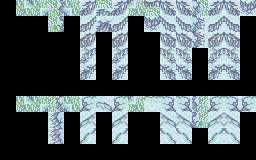
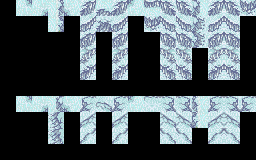
snow palette added

diff --git a/app/map_maker/scripts/palette_generation/transfer_palette.py b/app/map_maker/scripts/palette_generation/transfer_palette.py
@@ -1,0 +1,67 @@
+from typing import Dict
+
+import glob
+from PyQt5.QtGui import QImage, QPainter
+
+from app.editor.tile_editor.autotiles import PaletteData, check_hashes
+
+from app.constants import TILEWIDTH, TILEHEIGHT
+from app.utilities.typing import Pos
+
+def load_palettes(fn: str) -> Dict[Pos, PaletteData]:
+    palettes = {}
+    image = QImage(fn)
+    num_tiles_x = image.width() // (TILEWIDTH // 2)
+    num_tiles_y = image.height() // (TILEHEIGHT // 2)
+    for x in range(num_tiles_x):
+        for y in range(num_tiles_y):
+            rect = (x * (TILEWIDTH // 2), y * (TILEHEIGHT // 2), TILEWIDTH // 2, TILEHEIGHT // 2)
+            palette = image.copy(*rect)
+            d = PaletteData(palette)
+            palettes[(x, y)] = d
+    return palettes
+
+# python -m app.map_maker.scripts.palette_generation.transfer_palette
+if __name__ == '__main__':
+    import sys
+    from PyQt5.QtWidgets import QApplication
+    app = QApplication(sys.argv)
+
+    color_change_these_images = ['app/map_maker/palettes/greysnow_outdoors/*.png']
+    original_image = 'app/map_maker/palettes/monastery_outdoors/main.png'
+    new_image = 'app/map_maker/palettes/Snow_Ruins.png'
+
+    change_images = []
+    for c in color_change_these_images:
+        change_images.extend(glob.glob(c))
+    print("Loading original palette...")
+    original_palettes = load_palettes(original_image)
+    print("Loading new palette...")
+    new_palettes = load_palettes(new_image)
+
+    for im_path in change_images[:]:
+        print(im_path)
+        im = QImage(im_path)
+        new_im = im.copy()
+        painter = QPainter(new_im)
+        num_tiles_x = im.width() // (TILEWIDTH // 2)
+        num_tiles_y = im.height() // (TILEHEIGHT // 2)
+        for x in range(num_tiles_x):
+            for y in range(num_tiles_y):
+                rect = (x * TILEWIDTH // 2, y * TILEHEIGHT // 2, TILEWIDTH // 2, TILEHEIGHT // 2)
+                pal = im.copy(*rect)
+                d = PaletteData(pal)
+                # Skip palettes with one or less colors
+                if len(d.uniques) <= 1:
+                    continue
+                # Match where this palette is found in original image
+                for ocoord, opalette in original_palettes.items():
+                    if check_hashes(opalette, d):
+                        # new_im.paste(new_palettes[ocoord].im)
+                        painter.drawImage(rect[0], rect[1], new_palettes[ocoord].im)
+                        break
+                else:
+                    print(f"Could not find sprite at {rect[0]}, {rect[1]}.")
+        painter.end()
+        new_im.save(im_path)
+    print("Done!")

diff --git a/app/map_maker/scripts/palette_generation/simple_palette_exchanger.py b/app/map_maker/scripts/palette_generation/simple_palette_exchanger.py
@@ -63,9 +63,9 @@ if __name__ == '__main__':
     #                              'app/map_maker/palettes/monastery_outdoors/sparse_forest.png',
     #                              'app/map_maker/palettes/monastery_outdoors/thicket.png',
     #            
-    color_change_these_images = ['app/map_maker/palettes/greysnow_outdoors/*.png']
+    color_change_these_images = ['app/map_maker/palettes/greysnow/*.png']
     original_palette = 'app/map_maker/palettes/monastery_outdoors/main.png'
-    new_palette = 'app/map_maker/palettes/Snow_Ruins.png'
+    new_palette = 'app/map_maker/palettes/greysnow_outdoors/Snow_Ruins.png'
 
     change_images = []
     for c in color_change_these_images:

diff --git a/app/map_maker/painters/forest_painter.py b/app/map_maker/painters/forest_painter.py
@@ -25,8 +25,8 @@ class ForestPainter(Painter):
         my_radius_height: float = abs(pos[1] + 0.5 - center_y)
         depth_w: float = (blob_width / 2) - my_radius_width
         depth_h: float = (blob_height / 2) - my_radius_height
-        chance_w: float = lerp(1, 0, depth_w/4)
-        chance_h: float = lerp(1, 0, depth_h/4)
+        chance_w: float = lerp(1, 0, depth_w/3)
+        chance_h: float = lerp(1, 0, depth_h/3)
         chance_to_lose_adjacent_edges: float = clamp(max(chance_w, chance_h), 0, 1)
 
         north_edge = bool(north and north not in self.forest_like)  # Whether we don't border a forest
